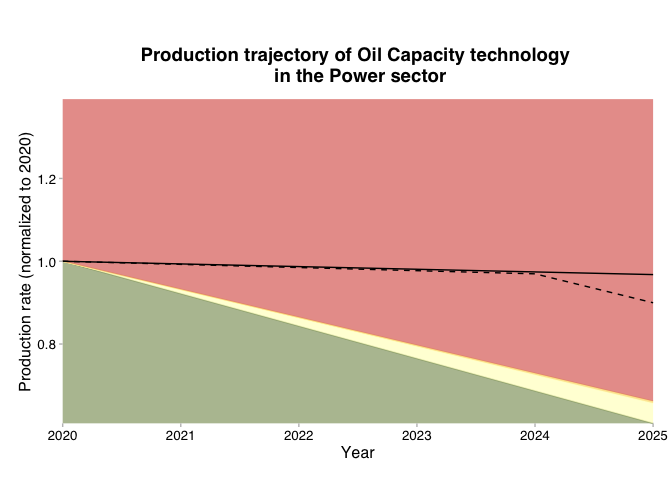
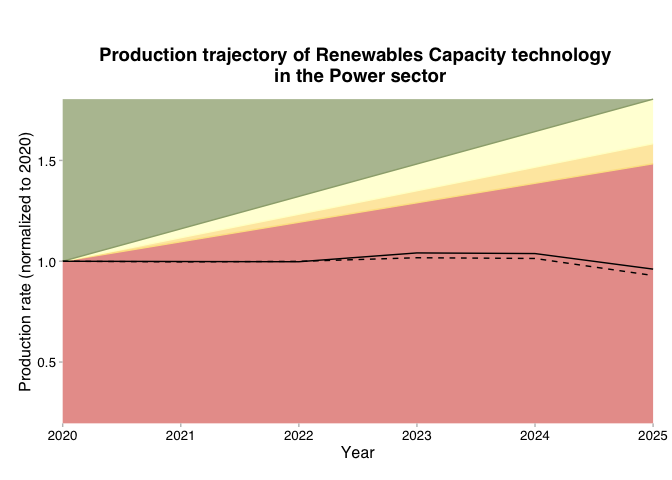
Change trajectory example to show renewables

diff --git a/README.md b/README.md
@@ -54,7 +54,7 @@ example_data <- process_input_data(example_data)
 data_trajectory <- prepare_for_trajectory_chart(
   example_data, 
   sector_filter = "power", 
-  technology_filter = "oilcap",
+  technology_filter = "renewablescap",
   region_filter = "global", 
   scenario_source_filter = "demo_2020",
   value_name = "production", 
@@ -75,7 +75,7 @@ additional_line_metrics <- data.frame(
 )
 
 plot <- plot_trajectory(data_trajectory,
-  plot_title = "Production trajectory of Oil Capacity technology \n in the Power sector",
+  plot_title = "Production trajectory of Renewables Capacity technology \n in the Power sector",
   x_title = "Year", y_title = "Production rate (normalized to 2020)",
   annotate_data = FALSE,
   scenario_specs_good_to_bad = scenario_specs,
